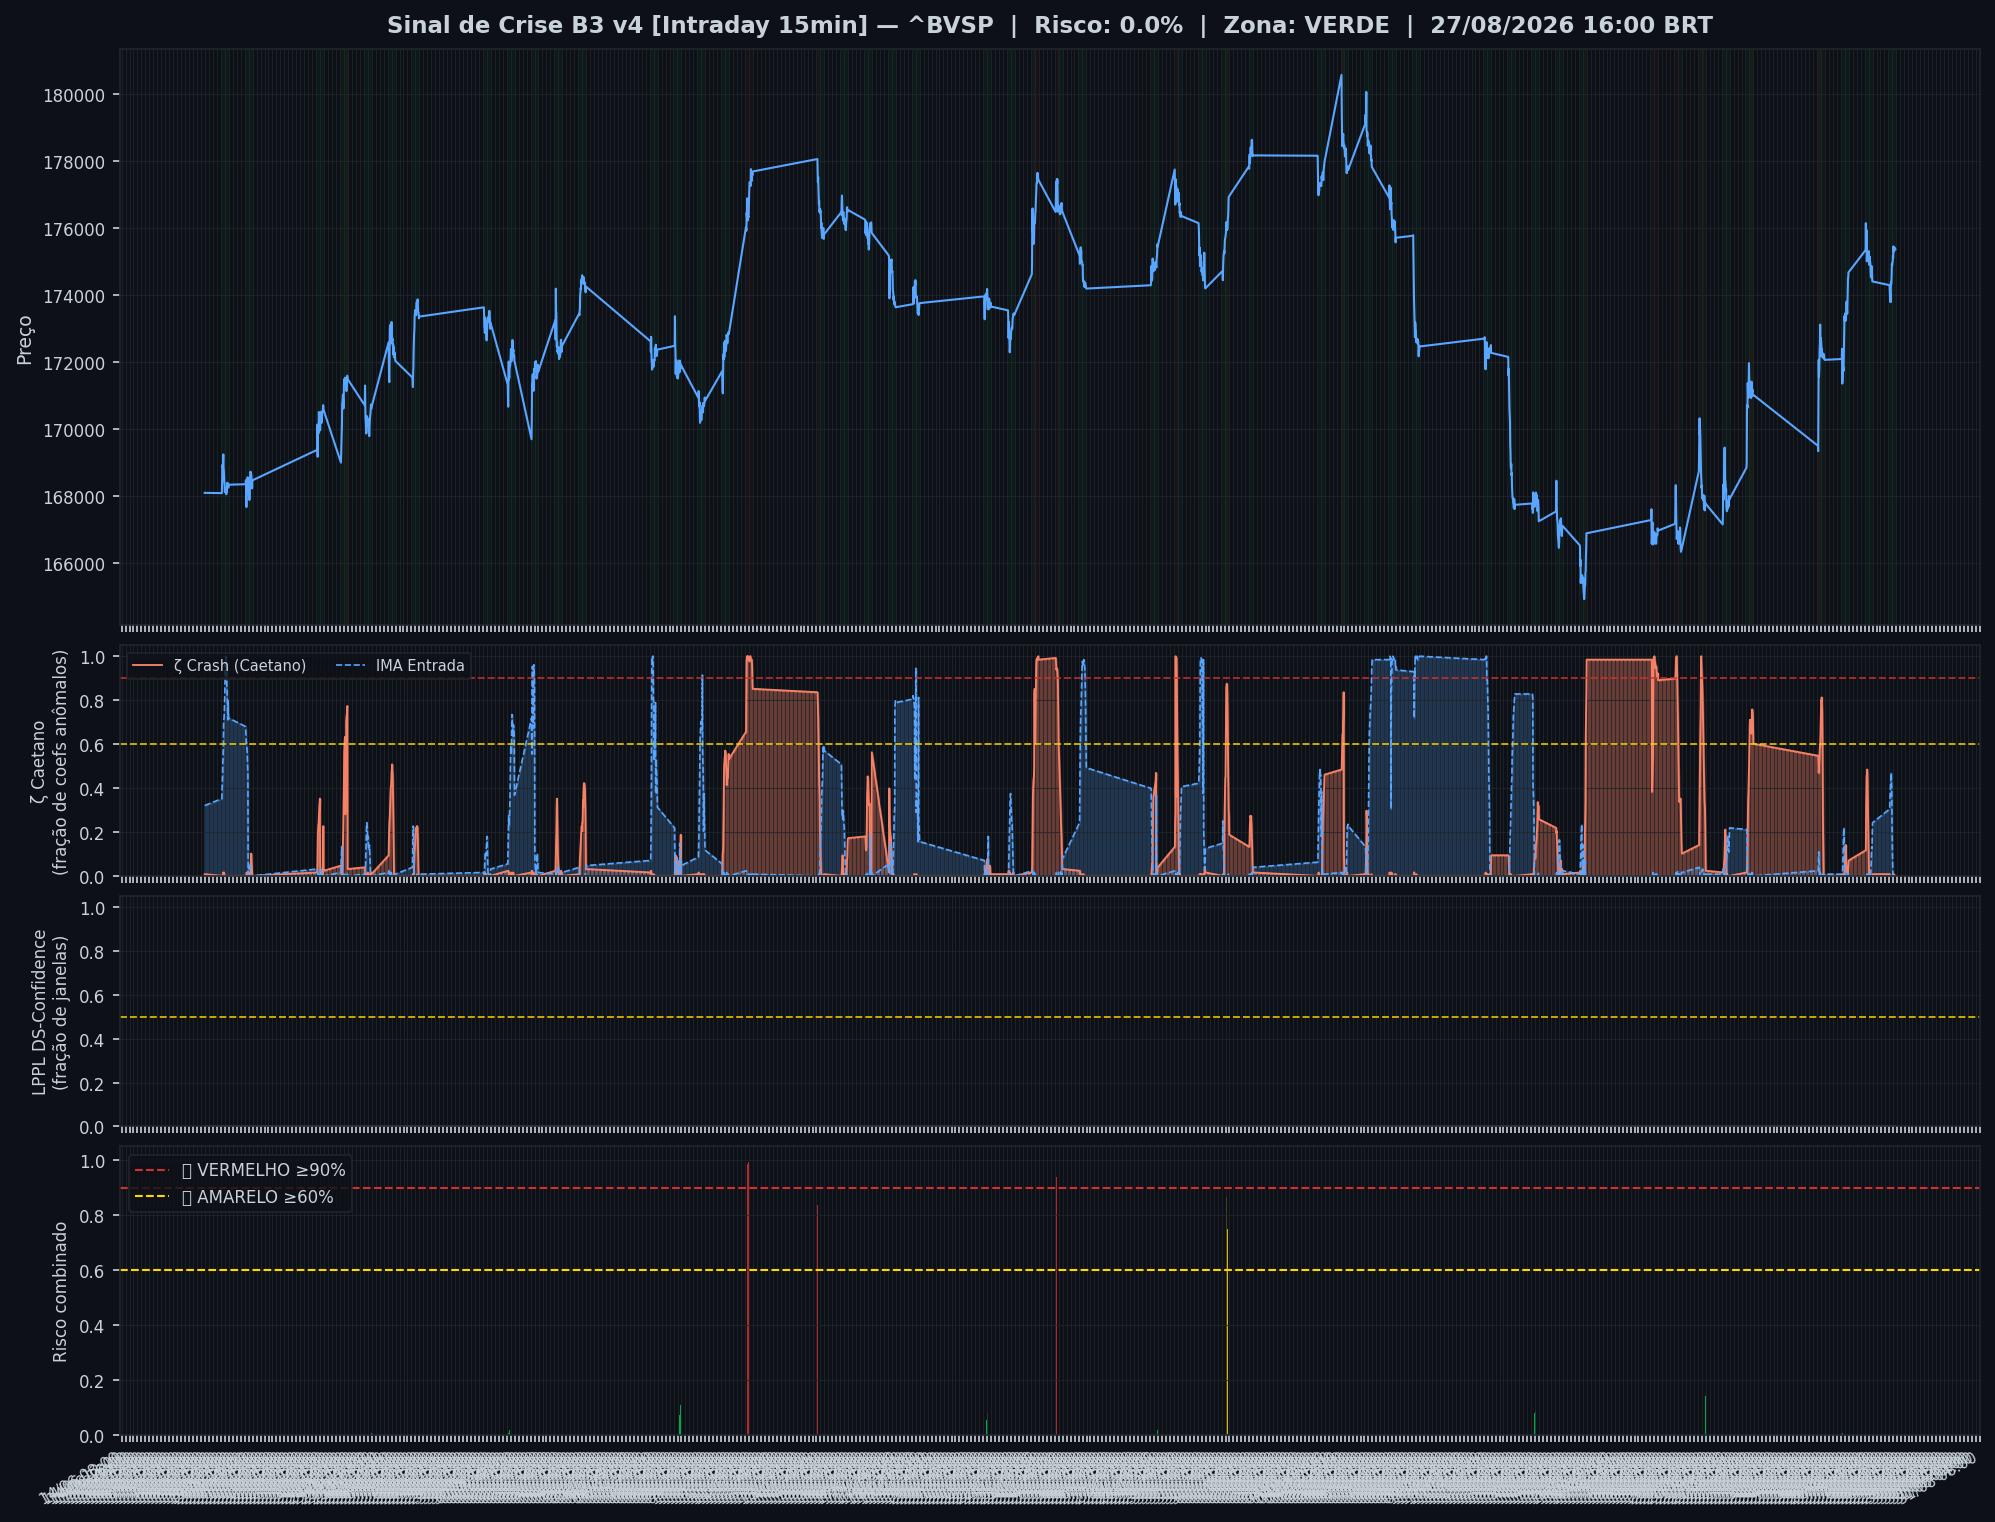
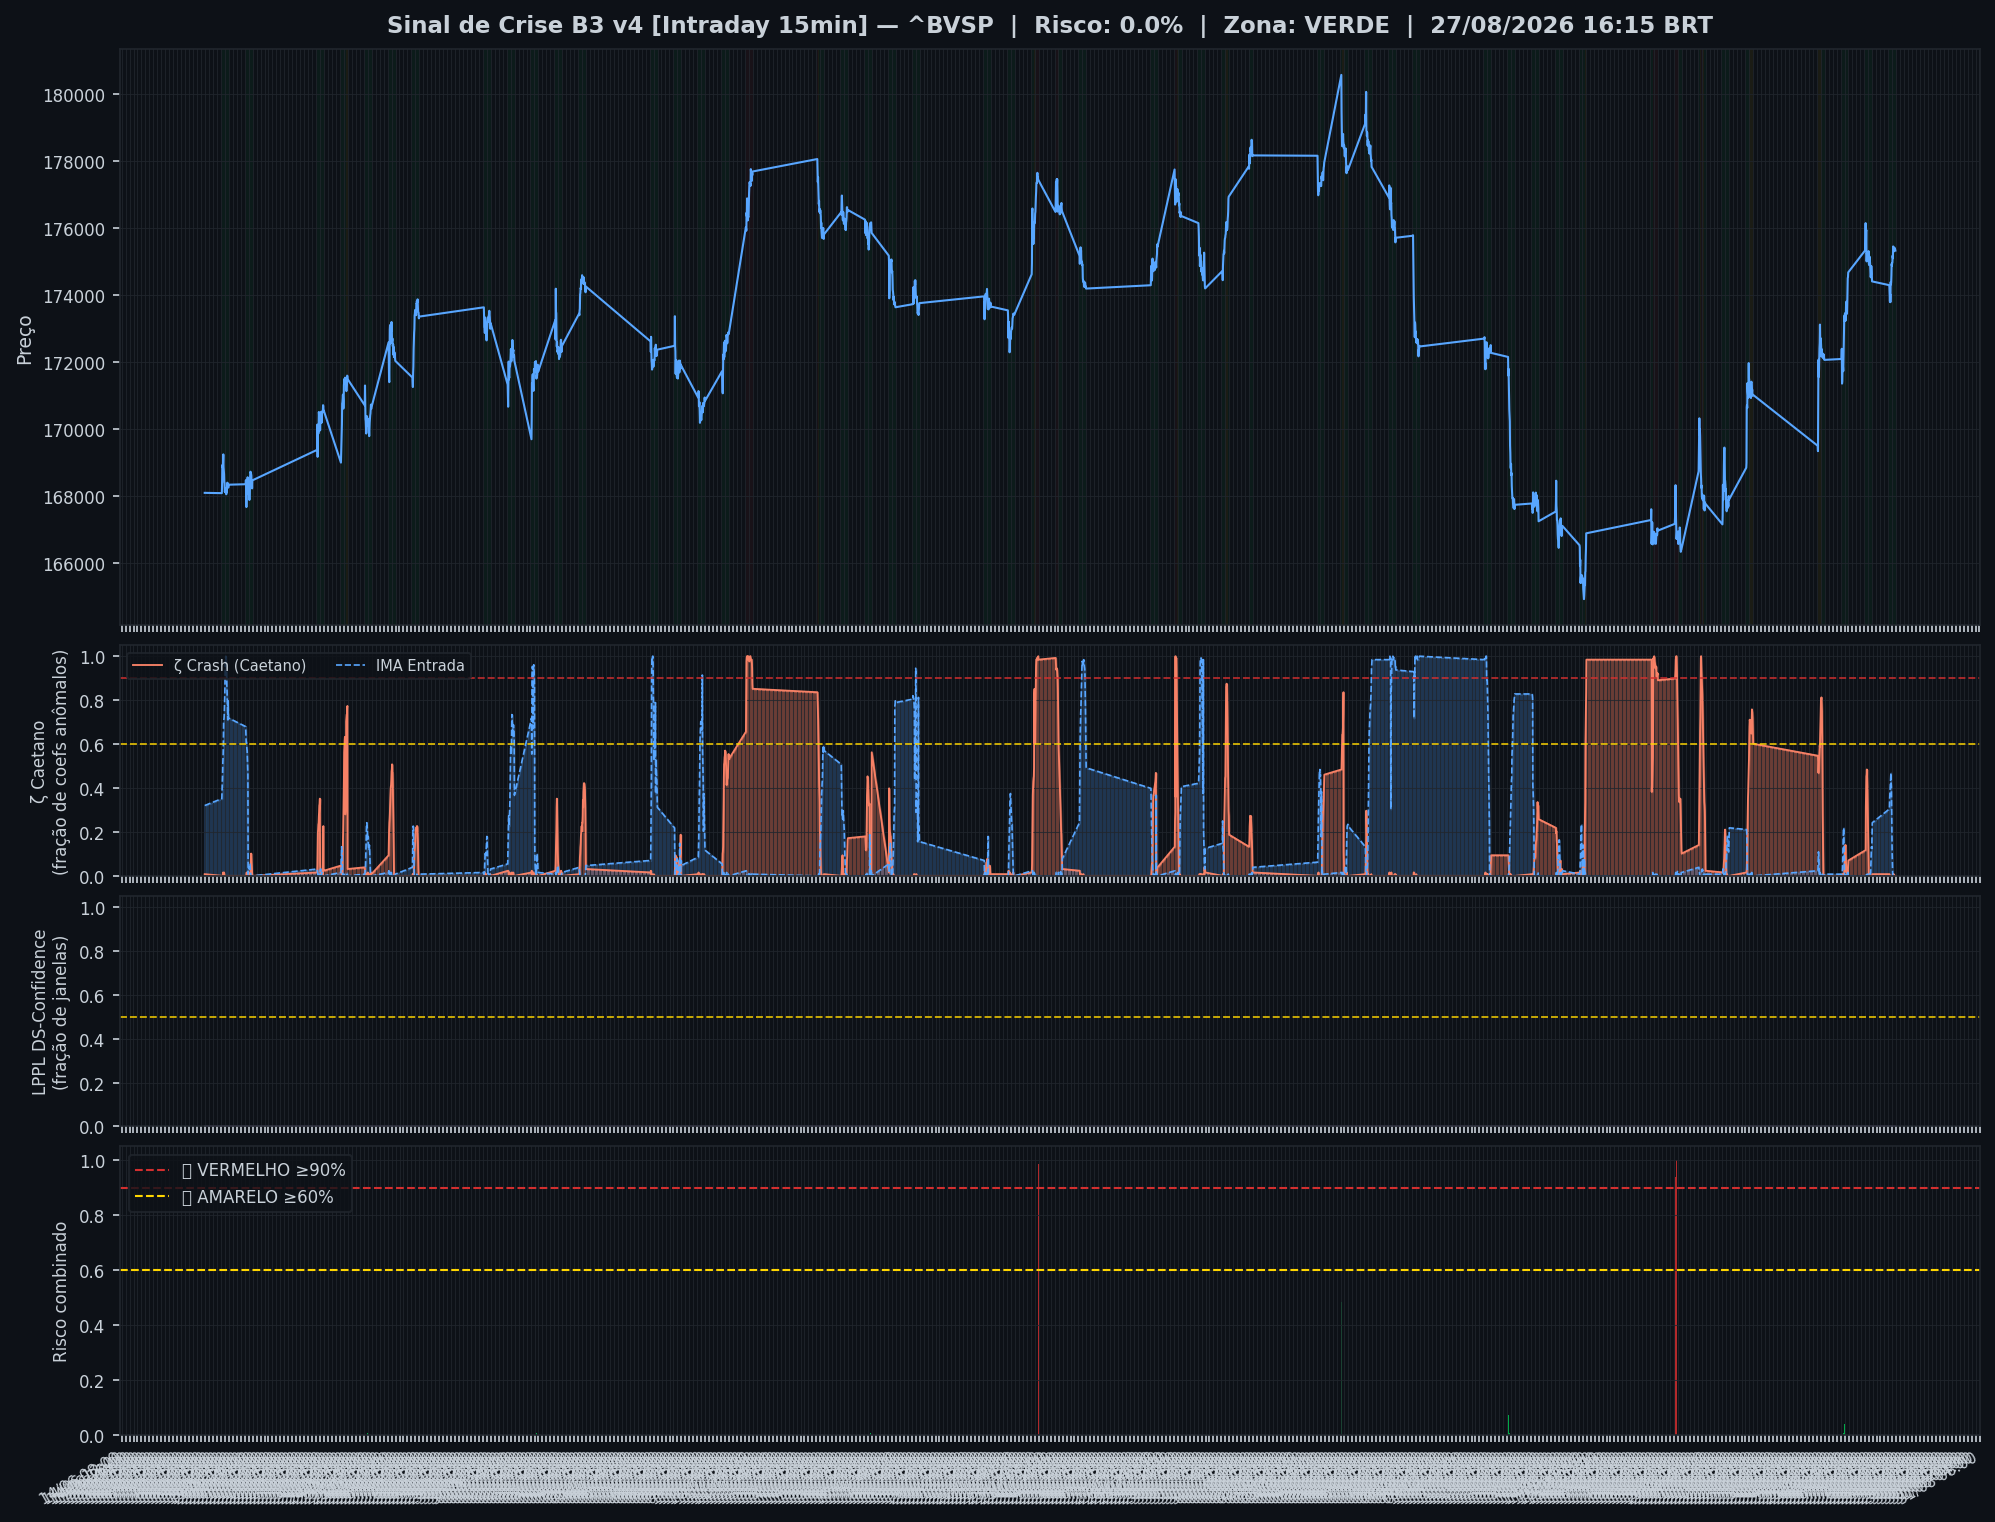
🤖 Auto: Sinal 27/08/2026 17:00

diff --git a/content/intraday/2026-08-27.md b/content/intraday/2026-08-27.md
@@ -1,5 +1,5 @@
 ---
-title: "🟢 Intraday 27/08/2026 16:00 BRT — VERDE"
+title: "🟢 Intraday 27/08/2026 16:15 BRT — VERDE"
 date: 2026-08-27
 tags: [intraday]
 ---
@@ -14,7 +14,7 @@ tags: [intraday]
 | 🔴 ζ Crash — severidade da queda em curso | **0%** |
 | 🔵 ζ Entrada — estrutura de fundo | 0% |
 | 🫧 LPPL DS-Confidence | 0% |
-| 📊 Ibovespa | 175.358 pts |
+| 📊 Ibovespa | 175.318 pts |
 
 ![Gráfico do sinal](../graficos/sinal_intraday.png)
 
@@ -22,6 +22,7 @@ tags: [intraday]
 
 | Data | Zona | Risco | IMA Crash | Entrada | LPPL |
 |---|---|---|---|---|---|
+| 2026-08-27 16:15 | 🟢 VERDE | **0%** | 0% | 0% | 0% |
 | 2026-08-27 16:00 | 🟢 VERDE | **0%** | 0% | 0% | 0% |
 | 2026-08-27 15:45 | 🟢 VERDE | **0%** | 0% | 0% | 0% |
 | 2026-08-27 15:30 | 🟢 VERDE | **0%** | 0% | 0% | 0% |
@@ -51,7 +52,6 @@ tags: [intraday]
 | 2026-08-26 16:30 | 🟢 VERDE | **0%** | 0% | 19% | 0% |
 | 2026-08-26 16:15 | 🟢 VERDE | **0%** | 0% | 12% | 0% |
 | 2026-08-26 16:00 | 🟢 VERDE | **0%** | 0% | 13% | 0% |
-| 2026-08-26 15:45 | 🟢 VERDE | **0%** | 0% | 12% | 0% |
 
 ## Monitor Multi-Ativo
 
@@ -59,6 +59,8 @@ tags: [intraday]
 
 | Zona | Ativo | Setor | IMA Crash | IMA Entrada |
 |---|---|---|---|---|
+| 🟢 | **USD/BRL** | Câmbio | 50.0% | 0.0% |
+| 🟢 | **VALE** | Mineração | 48.4% | 3.1% |
 | 🟢 | **ITAUUNIBANCO** | Financeiro | 48.4% | 3.1% |
 | 🟢 | **PETROBRAS** | Petróleo | 48.4% | 3.1% |
 | 🟢 | **AXIA ENERGIA** | Energia | 48.4% | 3.1% |
@@ -84,12 +86,10 @@ tags: [intraday]
 | 🟢 | **SUZANO S.A.** | Papel/Celulose | 48.4% | 3.1% |
 | 🟢 | **RAIADROGASIL** | Outros | 48.4% | 3.1% |
 | 🟢 | **BBSEGURIDADE** | Financeiro | 48.4% | 3.1% |
-| 🟢 | **USD/BRL** | Câmbio | 48.4% | 3.1% |
-| 🟢 | **VALE** | Mineração | 33.6% | 4.7% |
 
 ![Monitor multi-ativo](../graficos/multi_intraday.png)
 
-*Página atualizada em 27/08/2026 16:45 BRT (leitura da barra de 2026-08-27 16:00 BRT).*
+*Página atualizada em 27/08/2026 17:00 BRT (leitura da barra de 2026-08-27 16:15 BRT).*
 
 > [!info]- Como interpretar (clique para expandir)
 > - **ζ Crash**: fração dos coeficientes wavelet acima do corte (Caetano & Yoneyama 2009). Escala absoluta: ζ=0,90 = 90% dos coeficientes anômalos — historicamente, quedas com ζ≥0,90 foram mais fundas e mais longas. **Mede a severidade do movimento em curso, não prevê o início da queda.**

diff --git a/content/index.md b/content/index.md
@@ -8,7 +8,7 @@ tags: [home]
 
 Monitoramento diário e intraday do Ibovespa — **IMA Wavelet** (Prof. Marco Antonio Leonel Caetano, ITA/INSPER) + **LPPL DS-Confidence** (Prof. Didier Sornette, ETH-Zurich).
 
-*Última atualização: 27/08/2026 16:45 BRT · ^BVSP · Intraday 15min · v4*
+*Última atualização: 27/08/2026 17:00 BRT · ^BVSP · Intraday 15min · v4*
 
 > [!success] 🟢 **VERDE** — Risco 0% · ＝ +0 p.p. vs leitura anterior
 > `░░░░░░░░░░░░░░░░░░░░`
@@ -20,7 +20,7 @@ Monitoramento diário e intraday do Ibovespa — **IMA Wavelet** (Prof. Marco An
 | 🔴 ζ Crash — severidade da queda em curso | **0%** |
 | 🔵 ζ Entrada — estrutura de fundo | 0% |
 | 🫧 LPPL DS-Confidence | 0% |
-| 📊 Ibovespa | 175.358 pts |
+| 📊 Ibovespa | 175.318 pts |
 
 **Multi-ativo:** 0% em tensão (0🔴 0🟡 de 27 ativos)
 

diff --git a/content/historico.md b/content/historico.md
@@ -7,6 +7,7 @@ tags: [historico]
 
 | Data | Modo | Zona | Risco | IMA | LPPL |
 |---|---|---|---|---|---|
+| 2026-08-27 16:15 | intraday | 🟢 VERDE | 0% | 0% | 0% |
 | 2026-08-27 16:00 | intraday | 🟢 VERDE | 0% | 0% | 0% |
 | 2026-08-27 15:45 | intraday | 🟢 VERDE | 0% | 0% | 0% |
 | 2026-08-27 15:30 | intraday | 🟢 VERDE | 0% | 0% | 0% |
